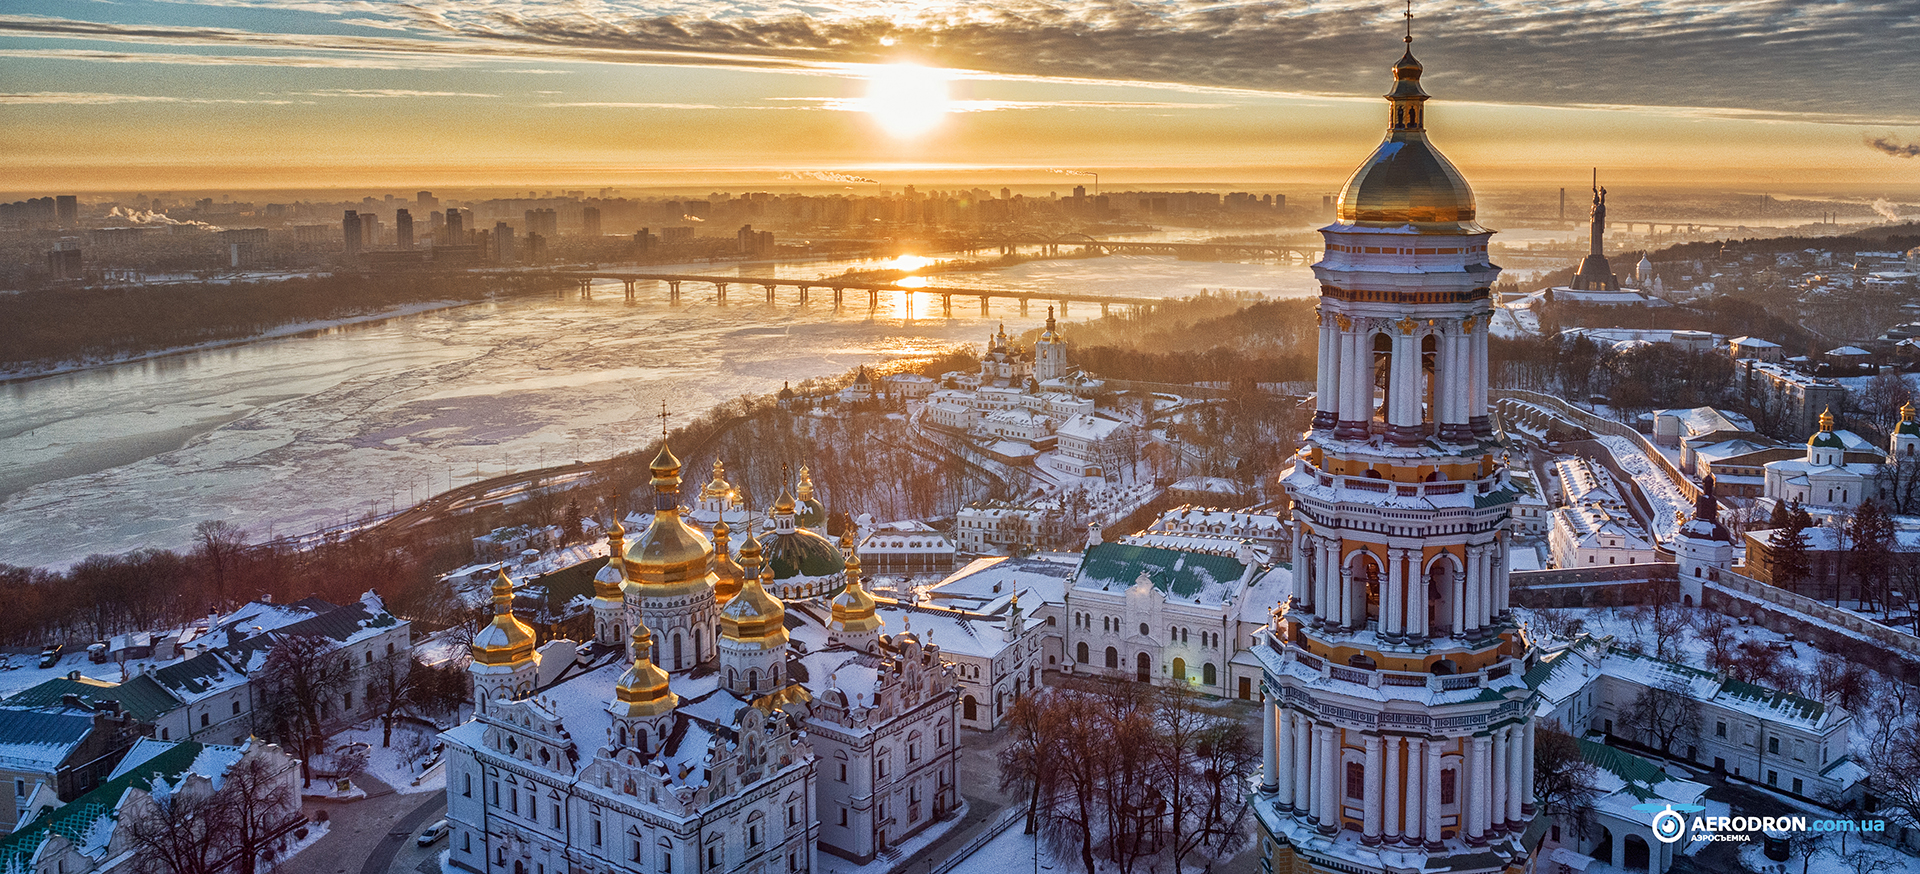
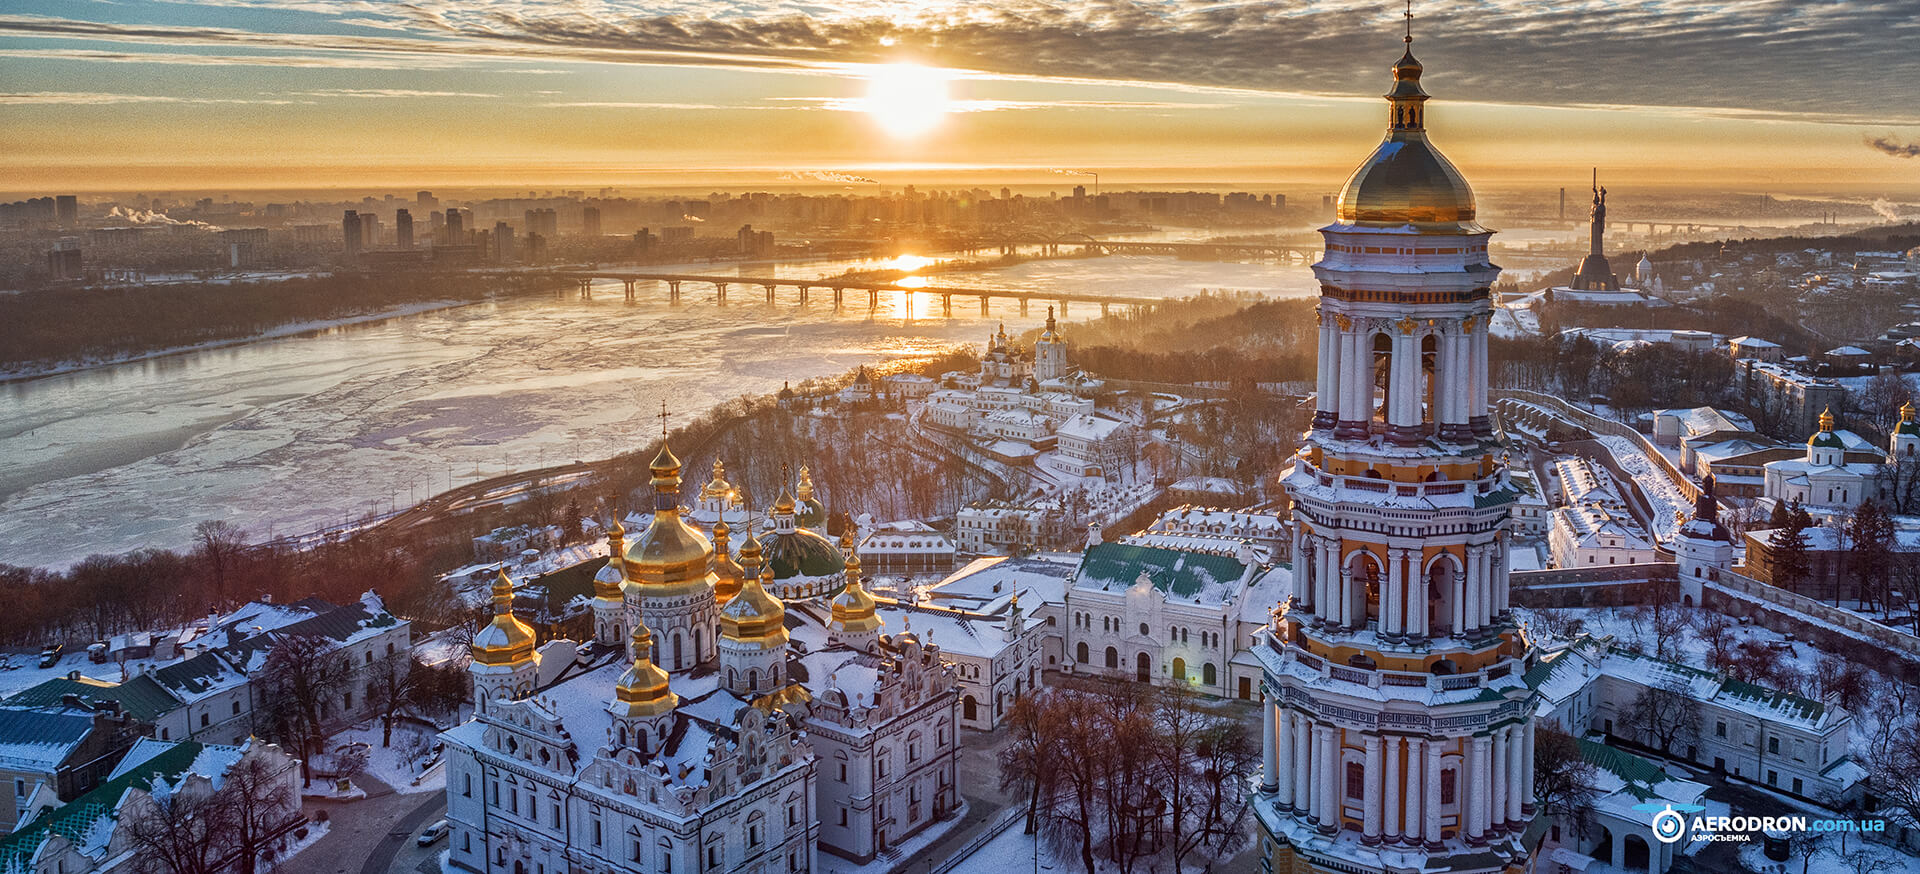
images optimization

Changed region(s): [[0.875, 0.9268, 0.9375, 0.9577], [0.4688, 0.3707, 0.5, 0.4016]]

diff --git a/pages/api/place/index.ts b/pages/api/place/index.ts
@@ -65,7 +65,7 @@ export const places: Array<IPlace> = [
       lng: 12.496365
     },
     description:
-      'Rome is the capital city of Italy. It is also the capital of the Lazio region, the centre of the Metropolitan City of Rome, and a special comune named Comune di Roma Capitale. With 2,860,009 residents in 1,285 km2 (496.1 sq mi),[1] Rome is the countrys most populated comune and the third most populous city in the European Union by population within city limits.',
+      'Rome is the capital city of Italy. It is also the capital of the Lazio region, the centre of the Metropolitan City of Rome, and a special comune named Comune di Roma Capitale. With 2,860,009 residents in 1,285 km2 (496.1 sq mi), Rome is the countrys most populated comune and the third most populous city in the European Union by population within city limits.',
     distance: 3350,
     duration: 7,
     image: `${process.env.NEXT_PUBLIC_URL}/images/places/Italy/rome.jpg`,
@@ -99,7 +99,7 @@ export const places: Array<IPlace> = [
       lng: 24.031724
     },
     description:
-      'Lviv is the largest city in Western Ukraine, and the sixth-largest in Ukraine, with a population of 717,510 (2021 est.). Lviv is one of the main cultural centres of Ukraine. It was named in honour of Leo, the eldest son of Daniel, King of Ruthenia. Lviv serves as the administrative centre of Lviv Oblast and Lviv Raion and had the status of city of oblast significance before that designation was abolished in 2020.[6] It has the administration of Lviv urban hromada, one of the hromadas of Ukraine. The historical heart of the city, with its old buildings and cobblestone streets, survived Soviet and German occupations during World War II largely unscathed.',
+      'Lviv is the largest city in Western Ukraine, and the sixth-largest in Ukraine, with a population of 717,510 (2021 est.). Lviv is one of the main cultural centres of Ukraine. It was named in honour of Leo, the eldest son of Daniel, King of Ruthenia. Lviv serves as the administrative centre of Lviv Oblast and Lviv Raion and had the status of city of oblast significance before that designation was abolished in 2020. It has the administration of Lviv urban hromada, one of the hromadas of Ukraine. The historical heart of the city, with its old buildings and cobblestone streets, survived Soviet and German occupations during World War II largely unscathed.',
     distance: 750,
     duration: 7,
     image: `${process.env.NEXT_PUBLIC_URL}/images/places/Ukraine/lviv.jpg`,
@@ -116,7 +116,7 @@ export const places: Array<IPlace> = [
       lng: -0.127895
     },
     description:
-      'London is the capital and largest city of England and the United Kingdom, with a population of just over 9 million.It stands on the River Thames in south-east England at the head of a 50-mile (80 km) estuary down to the North Sea, and has been a major settlement for two millennia.The City of London, its ancient core and financial centre, was founded by the Romans as Londinium and retains boundaries close to its medieval ones. London diverse cultures encompass over 300 languages.[26] The mid-2018 population of Greater London of about 9 million made it Europe third-most populous city.',
+      'London is the capital and largest city of England and the United Kingdom, with a population of just over 9 million.It stands on the River Thames in south-east England at the head of a 50-mile (80 km) estuary down to the North Sea, and has been a major settlement for two millennia.The City of London, its ancient core and financial centre, was founded by the Romans as Londinium and retains boundaries close to its medieval ones. London diverse cultures encompass over 300 languages. The mid-2018 population of Greater London of about 9 million made it Europe third-most populous city.',
     distance: 5750,
     duration: 12,
     image: `${process.env.NEXT_PUBLIC_URL}/images/places/United-Kingdom/london.jpg`,

diff --git a/app/components/screens/HomePage/PopularPlaces/PopularPlaces.tsx b/app/components/screens/HomePage/PopularPlaces/PopularPlaces.tsx
@@ -1,11 +1,8 @@
-import Image from 'next/image';
-import Link from 'next/link';
 import { FC } from 'react';
 import { IPlace } from '../../../../interfaces/place';
 import Card from '../../../elements/Card/Card';
 
 import s from './PopularPlaces.module.scss';
-
 interface IPopularPlacesProps {
   places: Array<IPlace>;
 }
@@ -15,13 +12,14 @@ const PopularPlaces: FC<IPopularPlacesProps> = ({ places }) => {
     <section className={s.places}>
       <h2 className={s.places__title}>Popular places</h2>
       <div className={s.places__inner}>
-        {places.length === 0 && <div className={s.places__card}>NOT FOUND</div>}
-
-        {places.map((place) => (
-          <Card place={place} key={place.name} />
-        ))}
+        {places.length === 0 ? (
+          <div className={s.places__card}>NOT FOUND</div>
+        ) : (
+          places.map((place) => <Card place={place} key={place.name} />)
+        )}
       </div>
     </section>
   );
 };
+
 export default PopularPlaces;

diff --git a/pages/index.tsx b/pages/index.tsx
@@ -1,12 +1,12 @@
 import { NextPage, GetStaticProps } from 'next';
 import { IPlace } from '../app/interfaces/place';
 import MainLayout from '../app/layouts/MainLayout';
-
-import axios from 'axios';
 import SearchPanel from '../app/components/screens/HomePage/SearchPanel/SearchPanel';
 import PopularPlaces from '../app/components/screens/HomePage/PopularPlaces/PopularPlaces';
 import { useState } from 'react';
 import { IFiltersPopularCountries } from '../app/interfaces/common';
+
+import axios from 'axios';
 interface IHomeProps {
   initialPlaces: Array<IPlace>;
   filtersPopularCountries: Array<IFiltersPopularCountries>;
